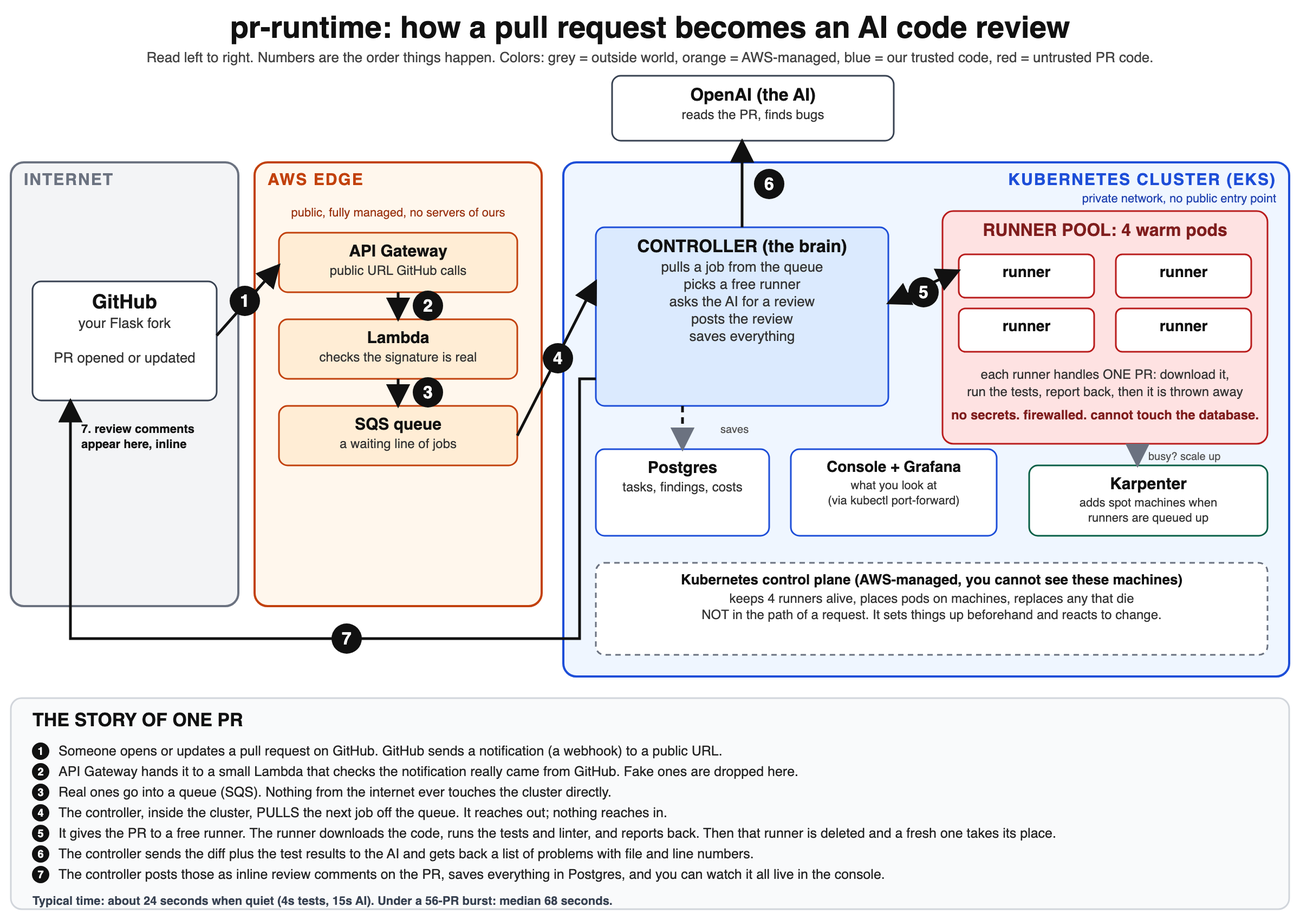
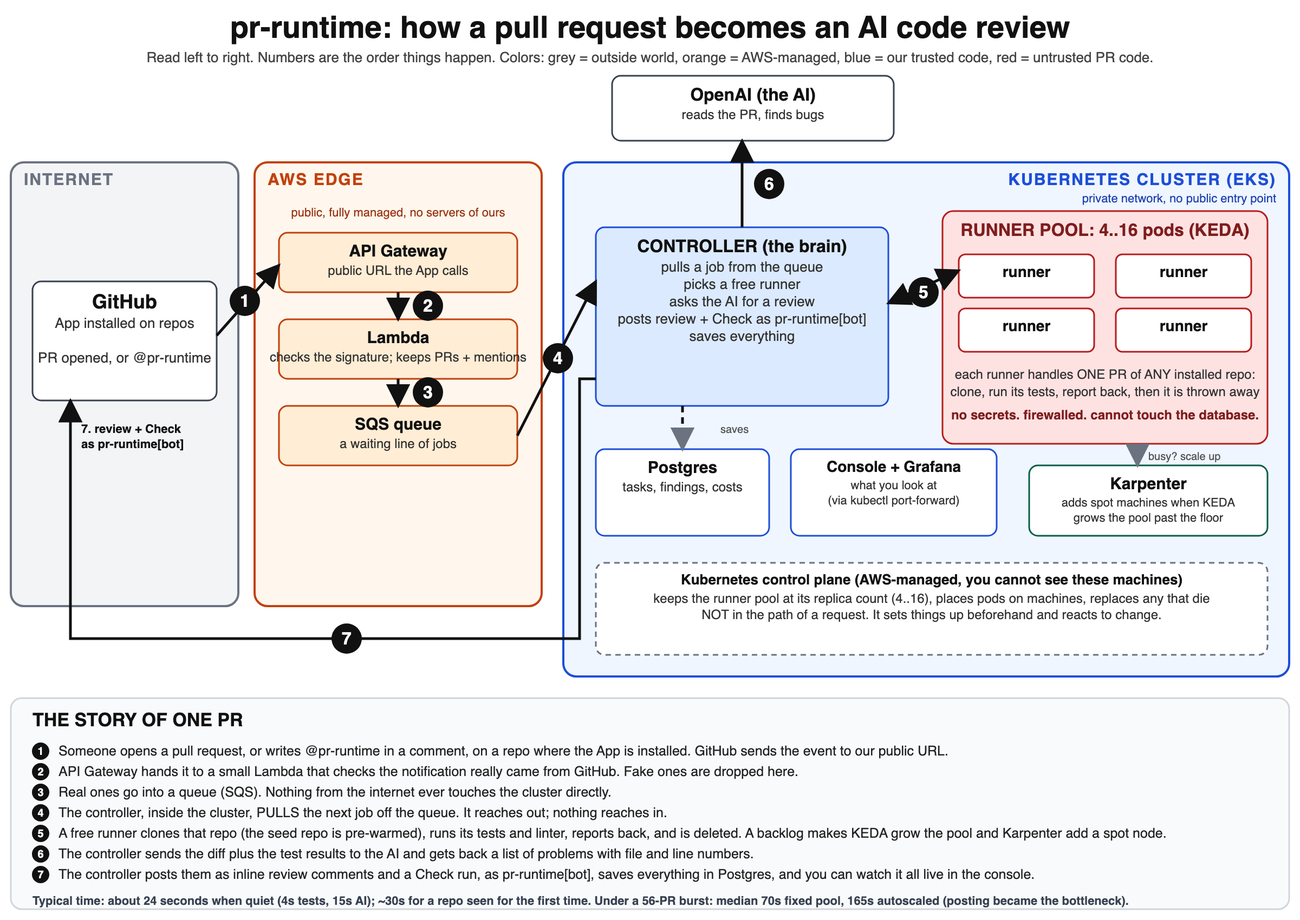
docs: sync diagrams, spec, walkthrough, onboarding, crash course, overview image with the App, multi-repo runner, and KEDA autoscaling loop

diff --git a/SPEC.md b/SPEC.md
@@ -46,10 +46,10 @@ Each row: what we chose, what we rejected, and the one-sentence Q&A answer.
 ## 2. Architecture (as deployed)
 
 ```
-GitHub (anthonyzhao27/flask fork)
-   │  pull_request webhook (opened / synchronize / reopened)
+GitHub App "pr-runtime" (installed per repo/org; events for every installed repo)
+   │  pull_request (opened / synchronize / reopened / ready_for_review)  ·  issue_comment mentioning @pr-runtime
    ▼
-API Gateway (HTTP API) ──► Lambda: verify HMAC, drop pings ──► SQS pr-runtime-tasks (+ DLQ)
+API Gateway (HTTP API) ──► Lambda: verify HMAC, drop pings/drafts/non-mentions ──► SQS pr-runtime-tasks (+ DLQ)
                                                                    │ long-poll
                                                                    ▼
    Secrets Manager ──(Pod Identity)──►  ┌─────────────────────────────┐
@@ -59,6 +59,7 @@ API Gateway (HTTP API) ──► Lambda: verify HMAC, drop pings ──► SQS p
                                         │  - assign → delete pod      │  REVIEW_WORKERS=32
                                         │  - lost-pod / deadline requeue, reconcile on restart
                                         │  - LLM review (4 configs)   │  git mirror in /tmp for agentic tools
+                                        │  - App JWT → install token  │  review + Check run as pr-runtime[bot]
                                         │  - serialized GitHub posts  │
                                         │  - /metrics  /api  SSE      │◄──► Postgres 16 (StatefulSet, gp3 PVC)
                                         │  - serves console + eval    │
@@ -66,10 +67,13 @@ API Gateway (HTTP API) ──► Lambda: verify HMAC, drop pings ──► SQS p
                                                    │ POST /task {task_id, head, base, pr}
                                                    ▼
                         ┌──────────────────────────────────────────┐
-                        │ runner Deployment, replicas=N (4 idle)   │  no secrets, no SA token, read-only root
-                        │  boot: copy /opt/seed/flask → /work      │  egress: controller, DNS, *:443 (not RFC1918/IMDS)
-                        │  task: fetch, checkout, diff, pytest,    │
-                        │        ruff, POST /result, readiness→503 │
+                        │ runner Deployment, replicas 4..16        │  no secrets, no SA token, read-only root
+                        │  (KEDA ScaledObject → HPA on backlog)    │  egress: controller, DNS, *:443 (not RFC1918/IMDS)
+                        │  boot: stage seed repo → /work           │
+                        │  task: seed repo warm, else clone any    │
+                        │        repo; detect toolchain or read   │
+                        │        .pr-runtime.yml; tests + lint;   │
+                        │        POST /result, readiness→503      │
                         │  controller deletes pod; ReplicaSet refills
                         └──────────────────────────────────────────┘
                  fixed floor: 3× m7g.large ──── Karpenter burst: spot c7g/m7g…, consolidates at 60s idle
@@ -79,12 +83,12 @@ API Gateway (HTTP API) ──► Lambda: verify HMAC, drop pings ──► SQS p
 ```
 
 **Flow for one PR:**
-1. Webhook → Lambda verifies `X-Hub-Signature-256`, forwards accepted `pull_request` events to SQS with `event`/`action`/`delivery` attributes.
-2. Controller consumes SQS, dedupes by `(pr, head_sha, config)`, supersedes older in-flight tasks for the same PR, creates a `tasks` row with priority = changed lines, enqueues.
-3. Scheduler tick (1s): idle = runner pods that are Ready and not assigned; while `busy < M`, pop smallest, POST the task to the warmest idle pod; `cold` flag if the pod is < 10s old.
-4. Runner: `git fetch`, checkout, merge-base diff, full `pytest`, `ruff`, read touched files, POST `/result/<task_id>`, flip readiness to 503.
-5. Controller deletes the pod, persists the result, submits the review to the LLM pool. Config decides the prompt: diff only / + files + test output / + guidelines / + tools.
-6. GitHub review posted (serialized, 1.5s gap, backoff on secondary rate limit): inline comments at `{path, line}` with severity, claim, evidence; verdict.
+1. The GitHub App delivers the event → Lambda verifies the HMAC, keeps PR events and `@pr-runtime` comments, forwards to SQS with `event`/`action`/`delivery` attributes.
+2. Controller consumes SQS, checks the repo allowlist and the repo's `.pr-runtime.yml` `mode:`, dedupes by `(pr, head_sha, config)`, supersedes older in-flight tasks for the same PR, creates a `tasks` row (priority = changed lines, `installation_id`, `trigger`), opens a Check run, enqueues. A mention gets a 👀 reaction.
+3. Scheduler tick (1s): idle = runner pods that are Ready and not assigned; cap M = number of Ready runners (or a fixed override); while `busy < M`, pop smallest, POST `{repo, clone_url, shas}` to the warmest idle pod; `cold` flag if the pod is < 10s old. Backlog raises `prr_tasks_pending` → KEDA scales the Deployment 4..16 → Karpenter adds a node if needed.
+4. Runner: reuse the warm seed repo or partial-clone the task's repo, `git fetch`, checkout, merge-base diff, detect the toolchain (or read `.pr-runtime.yml`), install if needed, run tests and lint, read touched files, POST `/result/<task_id>`, flip readiness to 503.
+5. Controller deletes the pod, persists the result, submits the review to the LLM pool (32 workers). Config decides the prompt: diff only / + files + test output / + guidelines / + tools.
+6. Posted as `pr-runtime[bot]` with a per-installation token (serialized, 1.5s gap, backoff on secondary rate limit): inline comments at `{path, line}` with severity, claim, evidence; verdict; the Check run completes `failure` on blocker/major findings, `neutral` on minors, `success` when clean.
 7. Metrics (`prr_*`): tasks_pending, runners_idle/busy, reviews_in_flight, admission_rejects_total, cold_assignments_total, tasks_lost_total{reason}, phase_seconds{phase}, wait_for_runner_seconds, time_to_comment_seconds, llm_tokens_total, cost_usd_total{kind}.
 
 ---
@@ -92,20 +96,20 @@ API Gateway (HTTP API) ──► Lambda: verify HMAC, drop pings ──► SQS p
 ## 3. Components (as built)
 
 ### 3.1 `infra/` (Terraform)
-- `vpc.tf` 2 AZs, private subnets for nodes, single NAT. `eks.tf` EKS 1.34, Graviton node group 3× m7g.large, addons (vpc-cni with network policy, coredns, kube-proxy, pod-identity-agent, ebs-csi). `queue.tf` SQS + DLQ. `apigw.tf` HTTP API + `lambda/ingress.py` (HMAC). `ecr.tf` controller / runner / tools repos. `identity.tf`, `identity-addons.tf` Pod Identity roles (controller, KEDA, baseline job, EBS CSI). `secrets.tf` `pr-runtime/app` seeded from `.env`. `karpenter.tf` module IAM, interruption queue, discovery tags. `driver.tf` driver instance, access entry, SG rule into the cluster SG.
+- `vpc.tf` 2 AZs, private subnets for nodes, single NAT. `eks.tf` EKS 1.34, Graviton node group 3× m7g.large with a pinned AMI release, addons (vpc-cni with network policy, coredns, kube-proxy, pod-identity-agent, ebs-csi). `queue.tf` SQS + DLQ. `apigw.tf` HTTP API + `lambda/ingress.py` (HMAC for the App's webhook; PR + mention filtering). `ecr.tf` controller / runner / tools repos. `identity.tf`, `identity-addons.tf` Pod Identity roles (controller, KEDA, baseline job, EBS CSI). `secrets.tf` `pr-runtime/app` seeded from `.env`. `karpenter.tf` module IAM, interruption queue, discovery tags. `driver.tf` driver instance, access entry, SG rule into the cluster SG.
 - Helm releases are applied from the CLI (`make rollout`, `deploy/monitoring/kps-values.yaml`, KEDA, Karpenter), not from Terraform.
 - `terraform destroy` plus `helm uninstall` and Karpenter NodeClaim cleanup leaves nothing billable.
 
 ### 3.2 `controller/` (Python 3.12, FastAPI)
 - `bootstrap.py` pull secrets from Secrets Manager before settings load. `config.py` all knobs (cap, review workers, deadline, models, effort, prices, pool size, guidelines dir).
-- `queue.py` SQS consumer, dedupe, supersede. `scheduler.py` ranking, admission, assignment, deadline + lost-pod requeue, result handling, review + post, reconcile on startup. `k8s.py` runner pod listing/deletion.
-- `reviewer.py` prompt assembly per config, structured outputs, `read_file` / agentic tool loop. `repo.py` bare git mirror for `read_file`/`grep`/`list_dir`. `github.py` reviews API with self-review fallback and rate-limit backoff.
+- `queue.py` SQS consumer (PR events and `@pr-runtime` mentions), repo allowlist and per-repo `mode:`, dedupe, supersede, Check run start. `scheduler.py` ranking, admission (cap = Ready runners), assignment, deadline + lost-pod requeue, orphan sweep, result handling, review + post + Check finish, reconcile on startup. `k8s.py` runner pod listing/deletion.
+- `reviewer.py` repo-agnostic prompt per config, structured outputs, `read_file` / agentic tool loop. `repo.py` bare git mirror for `read_file`/`grep`/`list_dir`. `github_app.py` JWT → per-installation tokens (cached). `github.py` reviews, Checks API, reactions, comments; PAT fallback with self-review downgrade; serialized writes with rate-limit backoff.
 - `db.py` SQLAlchemy models `tasks`, `findings`, `feedback`; `create_all` + idempotent `ALTER` migrations. `api.py` `/api/tasks`, `/api/tasks/{id}`, `/api/tasks/{id}/rerun`, `/api/findings/{id}/feedback`, `/api/stats`, `/api/events` (SSE). `main.py` wiring, `/metrics`, `/eval/results/latest/*` from a ConfigMap, SPA catch-all.
 - Image: multi-stage Dockerfile (node builds the console → python stage with git).
 
 ### 3.3 `runner/` (Python 3.12, stdlib HTTP server)
-- Image: `python:3.12-slim` + git + uv; Flask fork cloned to `/opt/seed/flask` with `uv sync --group tests --group dev` baked in. On boot the seed is copied to the `/work` emptyDir (root fs is read-only).
-- `POST /task` → fetch/checkout/diff/pytest/ruff/touched files → `POST /result` → state `done`, `/healthz` returns 503 so it is never reassigned. `RUNNER_MODE=job` + `TASK_FILE` for the KEDA baseline.
+- Image: `python:3.12-slim` + git + uv + ruff; the seed repo (Flask fork) cloned to `/opt/seed/flask` with test deps baked in. On boot the seed is staged into the `/work` emptyDir (root fs is read-only).
+- `POST /task {repo, clone_url, shas}` → seed repo reused warm (install skipped), any other repo partial-cloned → fetch/checkout/diff → toolchain from `.pr-runtime.yml` or detection (uv/pip/npm/go; none → diff-only review) → install, tests, lint, touched files → `POST /result` → state `done`, `/healthz` returns 503 so it is never reassigned. `RUNNER_MODE=job` + `TASK_FILE` for the KEDA baseline.
 
 ### 3.4 `eval/`
 - `build_corpus.py` historical reverts (red keeps tests; green reverts tests in a `bug-base/<sha>` branch so the PR diff is source-only) + 20 clean replays (base = main minus C, head = main). `mutate.py` single-operator AST mutants (cmp/boolop/not/offby1/guard/bool/swap_args/del_stmt), green and red, plus `--noisy` (mutant cherry-picked on top of a clean-base so the diff carries a real upstream change). `mutate_xfile.py` cross-file default flips (negative result on Flask, kept).

diff --git a/docs/PROJECT-WALKTHROUGH.md b/docs/PROJECT-WALKTHROUGH.md
@@ -279,29 +279,39 @@ flowchart LR
 | Tool | Scales | Signal | Us |
 |---|---|---|---|
 | HPA | pods | CPU/memory | not used |
-| **KEDA** | pods / Jobs | external metric (SQS depth, ...) | cold-start baseline only, disabled |
-| **Karpenter** | **nodes** | Pending pods | burst capacity |
-| our controller | tasks onto pods | its own queue | the actual scheduler of work |
+| **KEDA** | pods / Jobs | external metric (Prometheus query, SQS depth, ...) | **live**: ScaledObject on the runner Deployment, `max(prr_tasks_pending)`, 4..16 replicas |
+| **Karpenter** | **nodes** | Pending pods | burst capacity (spot Graviton) |
+| our controller | tasks onto pods | its own queue | the actual scheduler of work; cap = Ready runners |
 
 ```mermaid
 sequenceDiagram
-  participant U as kubectl scale runner --replicas=16
+  participant Q as 56 PRs arrive
+  participant C as controller
+  participant P as Prometheus
+  participant KD as KEDA / HPA
   participant A as API server
   participant S as scheduler
   participant K as Karpenter
   participant EC2 as EC2
-  U->>A: replicas 4 to 16
+  Q->>C: 52 tasks pending behind 4 runners
+  C->>P: prr_tasks_pending = 52 (scraped every 5s)
+  KD->>P: max(prr_tasks_pending) / threshold 1 → want 16
+  KD->>A: runner replicas 4 to 16 (t+10s)
   A->>S: 12 new pods
   S->>A: 5 fit on the floor, 7 Pending (no room)
   A->>K: watch: 7 Pending pods, 500m each
   K->>EC2: CreateFleet: cheapest arm64 in m7g/c7g/r7g/m8g/c8g that fits, spot preferred
   EC2-->>K: c7g.2xlarge spot, Ready at t+41s
   K->>A: node registered, label pool=burst
-  S->>A: bind the 7 pods to it (t+49s)
-  Note over K: pool back to 4, node empty 60s, drain + terminate
+  S->>A: bind the 7 pods to it (16 Ready at t+78s)
+  Note over C: cap follows Ready runners: 4 → 16 admission slots
+  Note over KD: pending back to 0, 120s stabilization, 16→12→8→4
+  Note over K: node empty 60s, drain + terminate (~t+360s)
 ```
 
-Spot reclaim: AWS posts a 2-minute warning to Karpenter's SQS interruption queue; Karpenter drains early; a busy runner's pod vanishes; our controller notices on the next tick and requeues the task (`prr_tasks_lost_total{reason=pod_lost}`). Measured: attempt 2 posted in 50s, nothing failed.
+Measured on the same 56-PR burst as the fixed pool: the runner stage drained in 86s instead of ~105s, but time-to-comment p50 got *worse* (165s vs 70s) because the serialized GitHub posting became the queue once runners and the LLM stopped metering reviews. Autoscaling the pool only helps when the tasks are long; for 4-second tasks the node ramp (~78s to 16 Ready) costs about what it saves. Details in DECISIONS.
+
+Spot reclaim: AWS posts a 2-minute warning to Karpenter's SQS interruption queue; Karpenter drains early; a busy runner's pod vanishes; our controller notices on the next tick and requeues the task (`prr_tasks_lost_total{reason=pod_lost}`). Measured: attempt 2 posted in 50s, nothing failed. Scale-down is deliberately slow (120s window, 4 pods/min) so a lull between waves doesn't flap the pool.
 
 Slurm mapping: NodePool = partition/nodeset rules; Karpenter = ResumeProgram/SuspendProgram with the machine type chosen per request; consolidateAfter = SuspendTime; `kubectl drain` = node going DRAIN.
 
@@ -336,29 +346,32 @@ PromQL you will see: `max(prr_tasks_pending)` (gauge, collapsed across restarts)
 
 ```mermaid
 sequenceDiagram
-  participant GH as GitHub
+  participant GH as GitHub (App installed)
   participant L as API GW + Lambda
   participant Q as SQS
   participant C as controller
   participant R as runner pod
   participant O as OpenAI
   participant PG as Postgres
-  GH->>L: pull_request webhook (HMAC signed)
-  L->>Q: SendMessage (signature verified)
+  GH->>L: pull_request event, or issue_comment with @pr-runtime (HMAC signed)
+  L->>Q: SendMessage (signature verified, drafts and non-mentions dropped)
   C->>Q: ReceiveMessage (long-poll via NAT)
-  C->>PG: insert task (priority = changed lines)
-  C->>R: POST /task to warmest idle pod IP
-  R->>GH: anonymous git fetch (NAT, 443)
-  R->>R: pytest, ruff, read touched files
+  C->>GH: JWT → installation token (1h, scoped to that repo)
+  C->>GH: open Check run "pr-runtime: Reviewing"
+  C->>PG: insert task (priority = changed lines, installation id, trigger)
+  C->>R: POST /task {repo, clone_url, shas} to warmest idle pod IP
+  R->>GH: anonymous git fetch (seed repo warm, other repos partial-clone)
+  R->>R: detect toolchain, install if needed, tests, lint, read touched files
   R->>C: POST /result/{id}, readiness 503
   C->>C: delete pod (ReplicaSet refills)
   C->>O: Responses API, JSON schema, effort high
   C->>PG: findings, verdict, cost
-  C->>GH: POST pulls/N/reviews (serialized)
+  C->>GH: POST review as pr-runtime[bot] (serialized)
+  C->>GH: complete Check run: failure on blockers, neutral on minors, success when clean
   C-->>C: SSE event, console updates
 ```
 
-Timing, quiet: assigned under 1s, runner about 4s, LLM about 15s, post about 2s, total about 24s. Under a 56-PR burst with cap 4: p50 68s, p95 200s; the queue wait and the LLM stage dominate, never the runners.
+Timing, quiet: assigned under 1s, runner about 4s (seed repo) or 20-30s (cold clone of another repo), LLM about 15s, post about 2s, total about 24s. Under a 56-PR burst: fixed pool p50 70s / p95 200s; autoscaled pool p50 165s / p95 242s, worse, because serialized GitHub posting became the bottleneck. The runners are never the limiting stage.
 
 ---
 
@@ -374,6 +387,10 @@ Timing, quiet: assigned under 1s, runner about 4s, LLM about 15s, post about 2s,
 | `port-forward` "hangs" | It is bound to one pod; dies on rollout |
 | One cap for runners and LLM calls | Stages with different resource profiles need separate concurrency |
 | Spot launch failed | Account-level prerequisites (service-linked role, quotas) come before any scheduler logic |
+| Routine `terraform apply` rolled every node | The EKS module tracks the latest AMI by default; pin anything whose change means a rollout |
+| Check-run id overflowed INTEGER, task stranded `queued` | Use BIGINT for external ids; make side bookkeeping non-fatal; reconcile from the DB on boot |
+| 32 review workers starved the DB pool | Every worker holds a connection through its LLM call; size the pool to the workers |
+| Autoscaled pool made p50 worse | Scaling the cheap stage exposes the next bottleneck (serialized posting); measure before celebrating |
 
 ---
 
@@ -389,13 +406,13 @@ Timing, quiet: assigned under 1s, runner about 4s, LLM about 15s, post about 2s,
 8. Why no LoadBalancer Service? Nothing in the cluster is public; the webhook goes to API Gateway, Lambda, SQS, and the controller pulls.
 9. What stops a runner from reading Postgres or EC2 metadata? NetworkPolicy, enforced by the VPC CNI eBPF agent. Verified.
 10. What is the hole in it? Any host on 443.
-11. How does the controller get AWS credentials? Pod Identity association to an IAM role, via the node agent.
+11. How does the controller get AWS credentials? Pod Identity association to an IAM role, via the node agent. GitHub credentials: it signs a JWT with the App's private key and exchanges it for a 1-hour installation token scoped to the installed repos.
 12. How does it get Kubernetes permissions? ServiceAccount plus Role (pods: get/list/watch/delete) in one namespace.
 13. How does kubectl from the driver box authenticate? IAM role, EKS access entry, cluster-admin.
 14. What is a PVC? A claim for storage; the EBS CSI driver turns it into an AZ-bound EBS volume.
 15. What does Karpenter react to? Pending pods. It picks the cheapest instance that fits them and consolidates idle nodes after 60s.
 16. What happens on a spot reclaim mid-task? Interruption queue, drain, pod vanishes, controller requeues immediately.
-17. KEDA vs Karpenter? KEDA scales pods/Jobs from external metrics; Karpenter scales nodes. We kept KEDA only as the cold-start baseline.
+17. KEDA vs Karpenter? KEDA scales pods from external metrics (ours: the controller's backlog gauge via Prometheus, 4..16 runners); Karpenter scales nodes when those pods go Pending. The controller's cap follows the Ready count, so all three layers move together.
 18. What is a CRD? A new object type; its operator is the controller loop that acts on it (NodePool, ScaledJob, ServiceMonitor).
 19. What does Helm do? Templates YAML and records the release. `helm template` shows what it applies.
 20. If the controller dies mid-review? The SQS message was already deleted; the row is in Postgres; `reconcile()` on boot resumes reviewing tasks and requeues running ones. Measured: 17 reviews resumed.

diff --git a/docs/DIAGRAMS.md b/docs/DIAGRAMS.md
@@ -50,11 +50,13 @@ flowchart TB
     subgraph NS_PRR["namespace pr-runtime"]
       direction TB
       CTRL_DEP["Deployment controller, replicas=1<br/>nodeSelector pool=general<br/>SA controller + Role: get/list/watch/delete pods"]
-      CTRL["pod controller<br/>FastAPI: SQS consume, rank, admit,<br/>assign, LLM review, GitHub post,<br/>/metrics /api SSE, serves console<br/>readOnlyRoot, /tmp emptyDir holds git mirror"]
+      CTRL["pod controller<br/>FastAPI: SQS consume, rank, admit (cap = Ready runners),<br/>assign, LLM review, GitHub App tokens, review + Check run,<br/>/metrics /api SSE, serves console<br/>readOnlyRoot, /tmp emptyDir holds git mirror"]
       CTRL_SVC["Service controller (ClusterIP :8000)"]
-      RUN_DEP["Deployment runner, replicas=N (4 idle)"]
+      RUN_DEP["Deployment runner, replicas 4..16<br/>(HPA sets .spec.replicas)"]
+      SO["ScaledObject runner (KEDA)<br/>trigger: Prometheus max(prr_tasks_pending)<br/>threshold 1/runner, min 4, max 16, scale-down 120s"]
+      HPA["HPA keda-hpa-runner<br/>(created by KEDA)"]
       RUN_RS["ReplicaSet<br/>keeps N pods alive; replaces deleted ones = warm-pool refill"]
-      RUN1["runner pod (idle, Ready)<br/>no SA token, no secrets,<br/>readOnlyRoot, /work emptyDir,<br/>drop ALL caps, limits 1 CPU / 1Gi<br/>readiness: 200 idle, 503 after a task"]
+      RUN1["runner pod (idle, Ready)<br/>no SA token, no secrets,<br/>readOnlyRoot, /work emptyDir,<br/>drop ALL caps, limits 1 CPU / 1Gi<br/>readiness: 200 idle, 503 after a task<br/>seed repo warm; any other repo clones on demand"]
       RUN2["runner pod (idle, Ready)"]
       RUN3["runner pod (busy, NotReady)"]
       NP["NetworkPolicy runner-egress<br/>ingress: controller:8080 only<br/>egress: controller:8000, kube-dns:53, *:443 except 10/8 and IMDS"]
@@ -82,6 +84,8 @@ flowchart TB
       CM1 -. mount /eval-results .-> CTRL
       CM2 -. mount /guidelines .-> CTRL
       SM -. selects .-> CTRL_SVC
+      SO --> HPA
+      HPA -- "sets replicas" --> RUN_DEP
     end
 
     subgraph NS_SYS["namespace kube-system"]
@@ -99,8 +103,8 @@ flowchart TB
       PROM --> GRAF
     end
 
-    subgraph NS_KEDA["namespace keda (baseline only, ScaledJob disabled)"]
-      KEDA["keda-operator<br/>would spawn one Job per SQS message"]
+    subgraph NS_KEDA["namespace keda"]
+      KEDA["keda-operator<br/>polls Prometheus every 5s for the ScaledObject's query,<br/>drives the HPA (also ran the Oct 7 ScaledJob baseline)"]
     end
   end
 
@@ -133,6 +137,8 @@ flowchart TB
   CTRL -- "SQL" --> PG_SVC
   PROM -- "GET /metrics" --> CTRL_SVC
   KSM --> PROM
+  KEDA -- "max(prr_tasks_pending)" --> PROM
+  KEDA --> SO
   RUN3 -- "git fetch github.com:443 (anonymous)" --> NAT["NAT gateway -> internet"]
   CTRL -- "OpenAI, GitHub API, SQS, Secrets Manager" --> NAT
   CNI -. "assigns VPC IPs to all pods" .-> RUN1
@@ -152,6 +158,7 @@ Legend: orange = AWS-managed; red = untrusted (runs PR code); blue = trusted con
 What to notice:
 - The **kubelet** on each node never decides anything; it does what the API server's desired state says and reports back. The **scheduler** decides placement; **controllers** (ReplicaSet etc.) decide counts; **Karpenter** decides nodes.
 - Our controller is just another API client: it lists runner pods and deletes them. Nothing else in Kubernetes knows about "tasks".
+- The autoscaling loop is three controllers that never talk to each other: KEDA reads the backlog gauge and sets the HPA, the HPA sets the Deployment's replica count, the ReplicaSet creates pods, and Karpenter adds a node when they go Pending. Our controller's admission cap follows the Ready count, so it grows with them.
 - The runner pod has no arrows to the API server, no secrets, and its only outbound paths are the controller Service, DNS, and port 443 through the NAT.
 
 ---
@@ -163,7 +170,7 @@ flowchart LR
   %% ============ OUTSIDE ============
   subgraph INTERNET["Internet"]
     direction TB
-    GH["GitHub<br/>anthonyzhao27/flask fork<br/>PRs, webhooks, Reviews API"]
+    GH["GitHub<br/>App 'pr-runtime' installed on repos<br/>sends pull_request + issue_comment (@pr-runtime) events<br/>receives reviews as pr-runtime[bot] + Check runs"]
     OPENAI["OpenAI API<br/>gpt-6-astra reviewer (effort high)<br/>gpt-6-luna judge"]
     LAPTOP["Laptop<br/>kubectl port-forward only<br/>console :18000, Grafana :13000"]
   end
@@ -172,7 +179,7 @@ flowchart LR
   subgraph EDGE["AWS managed edge (public, no servers of ours)"]
     direction LR
     APIGW["API Gateway HTTP API<br/>POST /webhook"]
-    LAMBDA["Lambda ingress.py<br/>verify X-Hub-Signature-256 HMAC<br/>drop ping / unwanted actions"]
+    LAMBDA["Lambda ingress.py<br/>verify the App's webhook HMAC<br/>keep PR opened/synchronize/reopened/ready, drop drafts<br/>keep issue_comment only if it mentions @pr-runtime"]
     SQS[("SQS pr-runtime-tasks<br/>visibility 10 min, DLQ after 3")]
     APIGW --> LAMBDA --> SQS
   end
@@ -197,8 +204,10 @@ flowchart LR
       direction TB
       subgraph EKS["EKS cluster pr-runtime (see diagram 1)"]
         direction TB
-        CTRL["controller pod<br/>trusted: secrets, LLM, GitHub, scheduling"]
-        POOL["warm runner pool, N=4<br/>untrusted: clone + pytest + ruff"]
+        CTRL["controller pod<br/>trusted: secrets, LLM, GitHub App tokens, scheduling<br/>cap = Ready runners"]
+        POOL["runner pool 4..16 (KEDA on backlog)<br/>untrusted: clone any repo + tests + lint"]
+        KEDA["KEDA ScaledObject → HPA<br/>max(prr_tasks_pending) per runner"]
+        KEDA -- "replicas" --> POOL
         PG[("Postgres 16<br/>tasks, findings, feedback")]
         GRAFANA["Prometheus + Grafana"]
         KARP["Karpenter"]
@@ -220,7 +229,8 @@ flowchart LR
   CTRL -- "0. at boot: GetSecretValue (Pod Identity)" --> SECRETS
   POOL -- "3. anonymous git fetch :443" --> NATGW --> GH
   CTRL -- "4. Responses API, structured output, tools" --> NATGW --> OPENAI
-  CTRL -- "5. POST pulls/N/reviews (serialized, backoff)" --> NATGW --> GH
+  CTRL -- "0b. JWT → installation token (1h, scoped to the installed repos)" --> NATGW --> GH
+  CTRL -- "5. POST review as pr-runtime[bot] + Check run (serialized, backoff)" --> NATGW --> GH
   FLOOR -- "image pull" --> ECR
   BURSTN -- "image pull" --> ECR
   KARP -- "launch / terminate" --> EC2API
@@ -245,7 +255,7 @@ flowchart LR
   class GH,OPENAI,LAPTOP ext;
 ```
 
-The numbered edges are the life of one PR: webhook in at the edge (1), controller pulls it from the queue (2), a runner fetches and tests the branch (3), the controller asks the model (4) and posts the review (5). Step 0 happens once per controller boot.
+The numbered edges are the life of one PR: the App delivers the event at the edge (1), the controller pulls it from the queue (2) and mints an installation token for that repo (0b), a runner fetches and tests the branch (3), the controller asks the model (4) and posts the review and a Check run as `pr-runtime[bot]` (5). Step 0 happens once per controller boot. An `@pr-runtime` comment follows the same path from (1).
 
 Trust boundaries, outermost in:
 1. **Internet → AWS edge**: API Gateway and Lambda are the only public surface, and Lambda rejects anything without a valid HMAC before it touches the queue.
@@ -253,4 +263,4 @@ Trust boundaries, outermost in:
 3. **Controller → runner**: the controller has every secret; the runner has none, no Kubernetes token, and an egress allow-list.
 4. **Laptop / driver → cluster**: IAM-authenticated `kubectl` to the API endpoint; SSM to the driver. No SSH keys anywhere.
 
-Everything inside the VPC is created by `infra/*.tf`; everything inside the cluster by `deploy/chart` plus three third-party Helm charts (kube-prometheus-stack, KEDA, Karpenter).
+Everything inside the VPC is created by `infra/*.tf`; everything inside the cluster by `deploy/chart` plus three third-party Helm charts (kube-prometheus-stack, KEDA, Karpenter). Scaling under burst: pending tasks → KEDA raises runner replicas (4..16) → Pending pods → Karpenter adds a spot node (~40s) → controller's cap follows the Ready count → consolidation 60s after idle.

diff --git a/docs/ONBOARDING.md b/docs/ONBOARDING.md
@@ -155,7 +155,7 @@ Two separate systems, both involved.
 
 **CRD** (Custom Resource Definition) = a new object type added to the API server, usually shipped with an **operator** (a controller that acts on it). You will see:
 - `ServiceMonitor` (Prometheus operator): "scrape this Service's `/metrics` every 5s."
-- `ScaledJob`, `TriggerAuthentication` (KEDA): "spawn Jobs based on SQS queue depth."
+- `ScaledObject` (KEDA): "keep the runner Deployment at ceil(backlog / 1) replicas, between 4 and 16," read from a Prometheus query. (The Oct 7 baseline used a `ScaledJob` instead.)
 - `NodePool`, `EC2NodeClass`, `NodeClaim` (Karpenter): "when pods are unschedulable, launch an EC2 instance matching these constraints; remove it when idle."
 - `PolicyEndpoint` (VPC CNI): the compiled form of our NetworkPolicy.
 
@@ -172,9 +172,10 @@ The **kube-scheduler** places each new pod on a node with enough unreserved *req
 
 **Karpenter** watches Pending pods, computes the cheapest instance type that fits them (within the NodePool's constraints: arm64, listed families and sizes, spot or on-demand), launches it, and labels it so the pods land there. When a node is empty or underutilized for `consolidateAfter: 60s`, it drains and terminates it. It also watches an SQS **interruption queue** fed by EventBridge for spot reclaim notices (2-minute warning) and drains proactively.
 
-Our two layers of "scheduling" are different things and it helps to keep them apart:
+Three layers of "scheduling" are different things and it helps to keep them apart:
 - **Kubernetes** schedules *pods onto nodes* (CPU/memory). Karpenter adds nodes when that fails.
-- **Our controller** schedules *tasks onto runner pods* (admission cap, diff-size ranking, warm pool). It never talks to nodes.
+- **KEDA** decides *how many runner pods* exist, from the controller's backlog gauge (4..16).
+- **Our controller** schedules *tasks onto runner pods* (admission cap = Ready runners, diff-size ranking, warm pool). It never talks to nodes.
 
 `kubectl drain <node>` evicts pods from a node (what a spot interruption or a node upgrade does). Our drain test proved a busy runner's task gets requeued immediately because the controller notices the pod is gone.
 
@@ -191,10 +192,10 @@ Our two layers of "scheduling" are different things and it helps to keep them ap
 
 ## 10. Reading our system with this vocabulary
 
-1. GitHub webhook → API Gateway → Lambda (HMAC) → SQS. Public edge is all AWS-managed; the cluster has no public surface.
+1. GitHub App event (PR or `@pr-runtime` mention) → API Gateway → Lambda (HMAC) → SQS. Public edge is all AWS-managed; the cluster has no public surface.
 2. Controller pod (Deployment, 1 replica, pinned to fixed nodes, Pod Identity for SQS + Secrets Manager, RBAC to list/delete pods) consumes SQS, writes Postgres (StatefulSet, EBS PVC), and keeps an in-memory priority queue.
-3. Runner pods (Deployment, N replicas, no SA token, read-only root, NetworkPolicy) sit Ready. The controller POSTs to a pod IP; the runner clones via NAT, runs tests, POSTs back via the `controller` Service, goes NotReady; the controller deletes it; the ReplicaSet makes a new one.
-4. Burst: pods beyond the floor's capacity go Pending; Karpenter launches a spot Graviton node (~40s); consolidation removes it a minute after the pool shrinks.
+3. Runner pods (Deployment, 4..16 replicas, no SA token, read-only root, NetworkPolicy) sit Ready. The controller POSTs to a pod IP; the runner reuses the warm seed repo or clones any other repo via NAT, runs its tests, POSTs back via the `controller` Service, goes NotReady; the controller deletes it; the ReplicaSet makes a new one. Reviews and Check runs post as `pr-runtime[bot]` with a per-installation token.
+4. Burst: the backlog gauge rises → KEDA raises replicas → pods beyond the floor's capacity go Pending → Karpenter launches a spot Graviton node (~40s) → the controller's cap follows the Ready count; 120s after the backlog clears the pool steps back down and consolidation removes the node.
 5. Everything you look at from a laptop goes through `kubectl port-forward`; everything heavy (image builds, evals) runs on the driver box over SSM.
 
 ---

diff --git a/README.md b/README.md
@@ -1,15 +1,17 @@
 # pr-runtime
 
-Pod-per-PR code review runtime on EKS. Every pull request gets an ephemeral, secret-less pod that clones
-the branch and runs the test suite; a trusted controller admits work from a queue, keeps a warm pool so
-nothing waits on a cold start, asks an LLM to review the diff with the test evidence attached, and posts
-inline review comments back to GitHub. An eval harness with real and synthetic injected bugs measures
-whether the reviewer catches what CI misses.
+Pod-per-PR code review runtime on EKS, delivered as a GitHub App. Every pull request (or `@pr-runtime`
+mention) on an installed repo gets an ephemeral, secret-less pod that clones the branch and runs its test
+suite; a trusted controller admits work from a queue, keeps a warm pool (autoscaled 4..16 by KEDA, nodes by
+Karpenter) so nothing waits on a cold start, asks an LLM to review the diff with the test evidence attached,
+and posts inline review comments and a Check run back as `pr-runtime[bot]`. An eval harness with real and
+synthetic injected bugs measures whether the reviewer catches what CI misses, and what each kind of context
+and scaling actually costs.
 
 ```
-GitHub webhook → API Gateway → Lambda (HMAC) → SQS → controller ─┬─► warm runner pool (pytest, ruff)
-                                                                  ├─► LLM review → GitHub review
-                                                                  └─► Postgres → console (React) / Prometheus → Grafana
+GitHub App events → API Gateway → Lambda (HMAC) → SQS → controller ─┬─► runner pool 4..16 (KEDA) on fixed + Karpenter spot nodes
+                                                                    ├─► LLM review → review + Check run as pr-runtime[bot]
+                                                                    └─► Postgres → console (React) / Prometheus → Grafana
 ```
 
 - `SPEC.md` — design, decisions table, schedule, stretch list

diff --git a/docs/CRASH-COURSE.md b/docs/CRASH-COURSE.md
@@ -125,7 +125,7 @@ Rules to internalize:
 | run a task and finish | Job |
 | a task every night | CronJob |
 
-**In pr-runtime:** the runner pool is a Deployment (warm pool), Postgres is a StatefulSet, the CNI and kube-proxy are DaemonSets, the KEDA baseline used Jobs.
+**In pr-runtime:** the runner pool is a Deployment (warm pool, autoscaled by KEDA), Postgres is a StatefulSet, the CNI and kube-proxy are DaemonSets, the Oct 7 cold-start baseline used Jobs.
 
 ---
 
@@ -328,7 +328,7 @@ Three different layers. Do not confuse them.
 
 Karpenter vs Cluster Autoscaler: Cluster Autoscaler resizes pre-defined node groups; Karpenter looks at the pending pods and launches whichever instance type fits cheapest, and removes idle nodes.
 
-**In pr-runtime:** Karpenter provides burst capacity (spot nodes in ~40s); KEDA was only the cold-start baseline; our own controller schedules *tasks* onto pods, a separate layer on top of all of this.
+**In pr-runtime:** KEDA scales the runner Deployment 4..16 from the controller's backlog gauge; Karpenter adds spot nodes in ~40s when those pods go Pending; our own controller schedules *tasks* onto pods with a cap that follows the Ready count. Measured: it works, and for 4-second tasks it didn't speed up time-to-comment, because the next bottleneck (serialized GitHub posting) took over.
 
 ---
 
